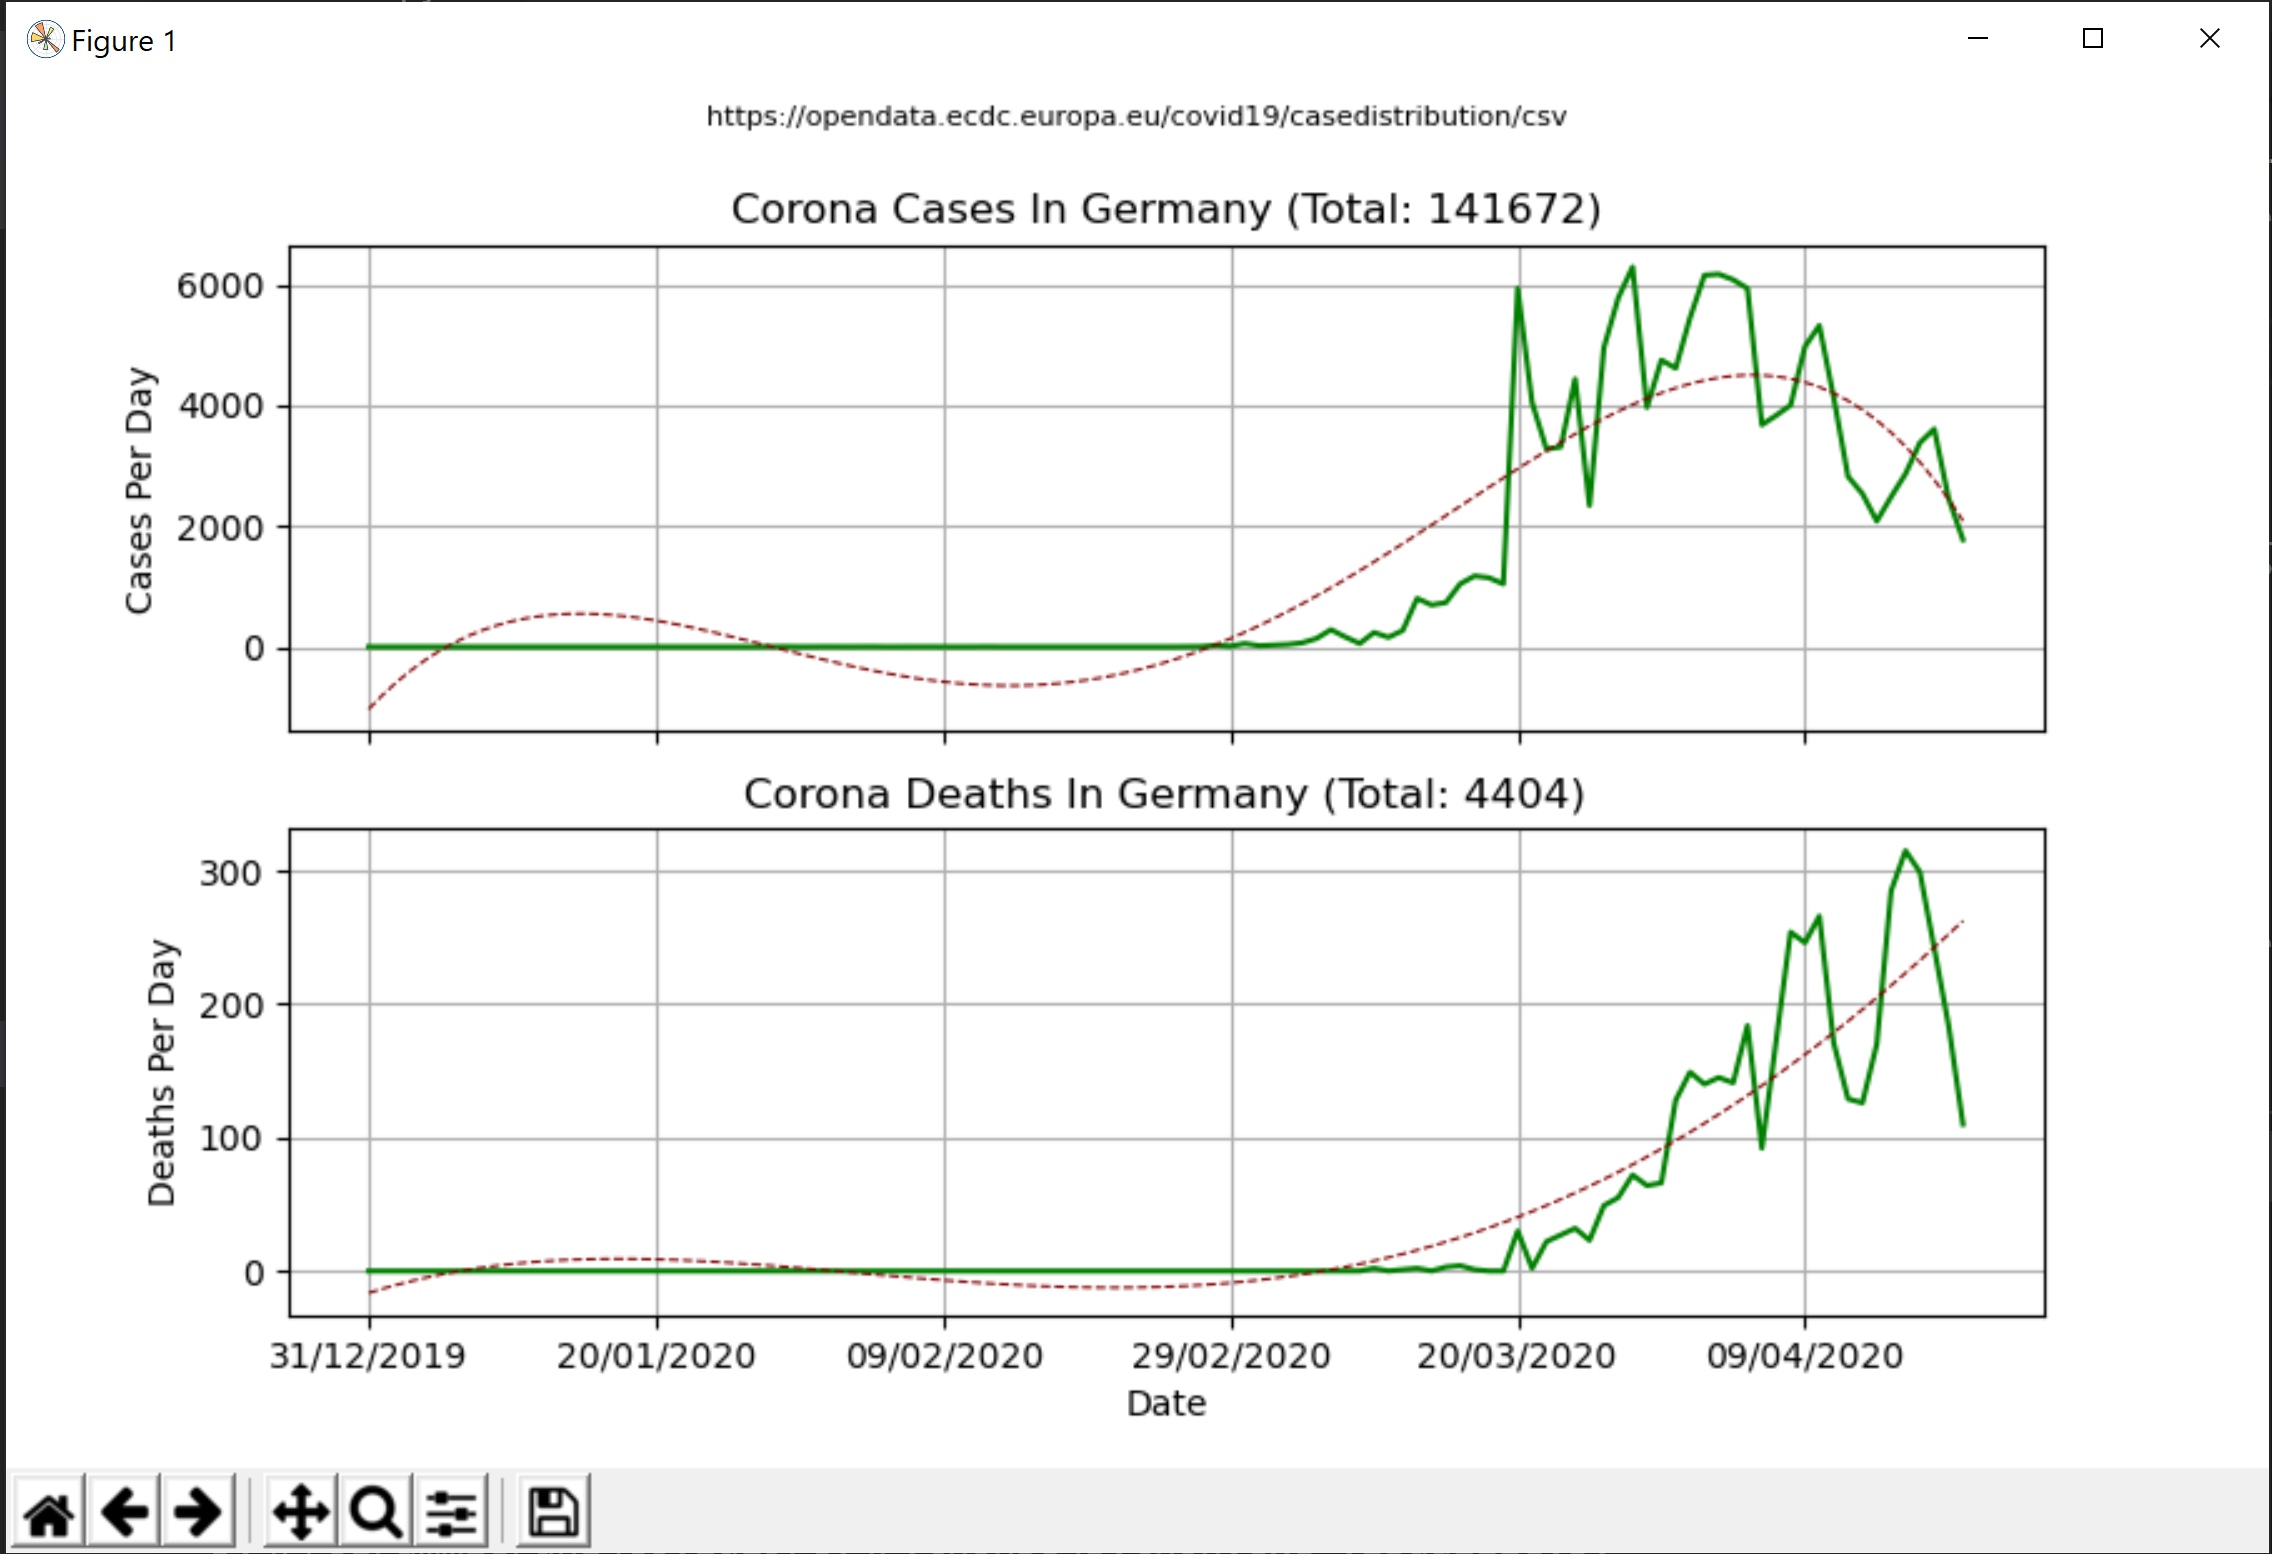
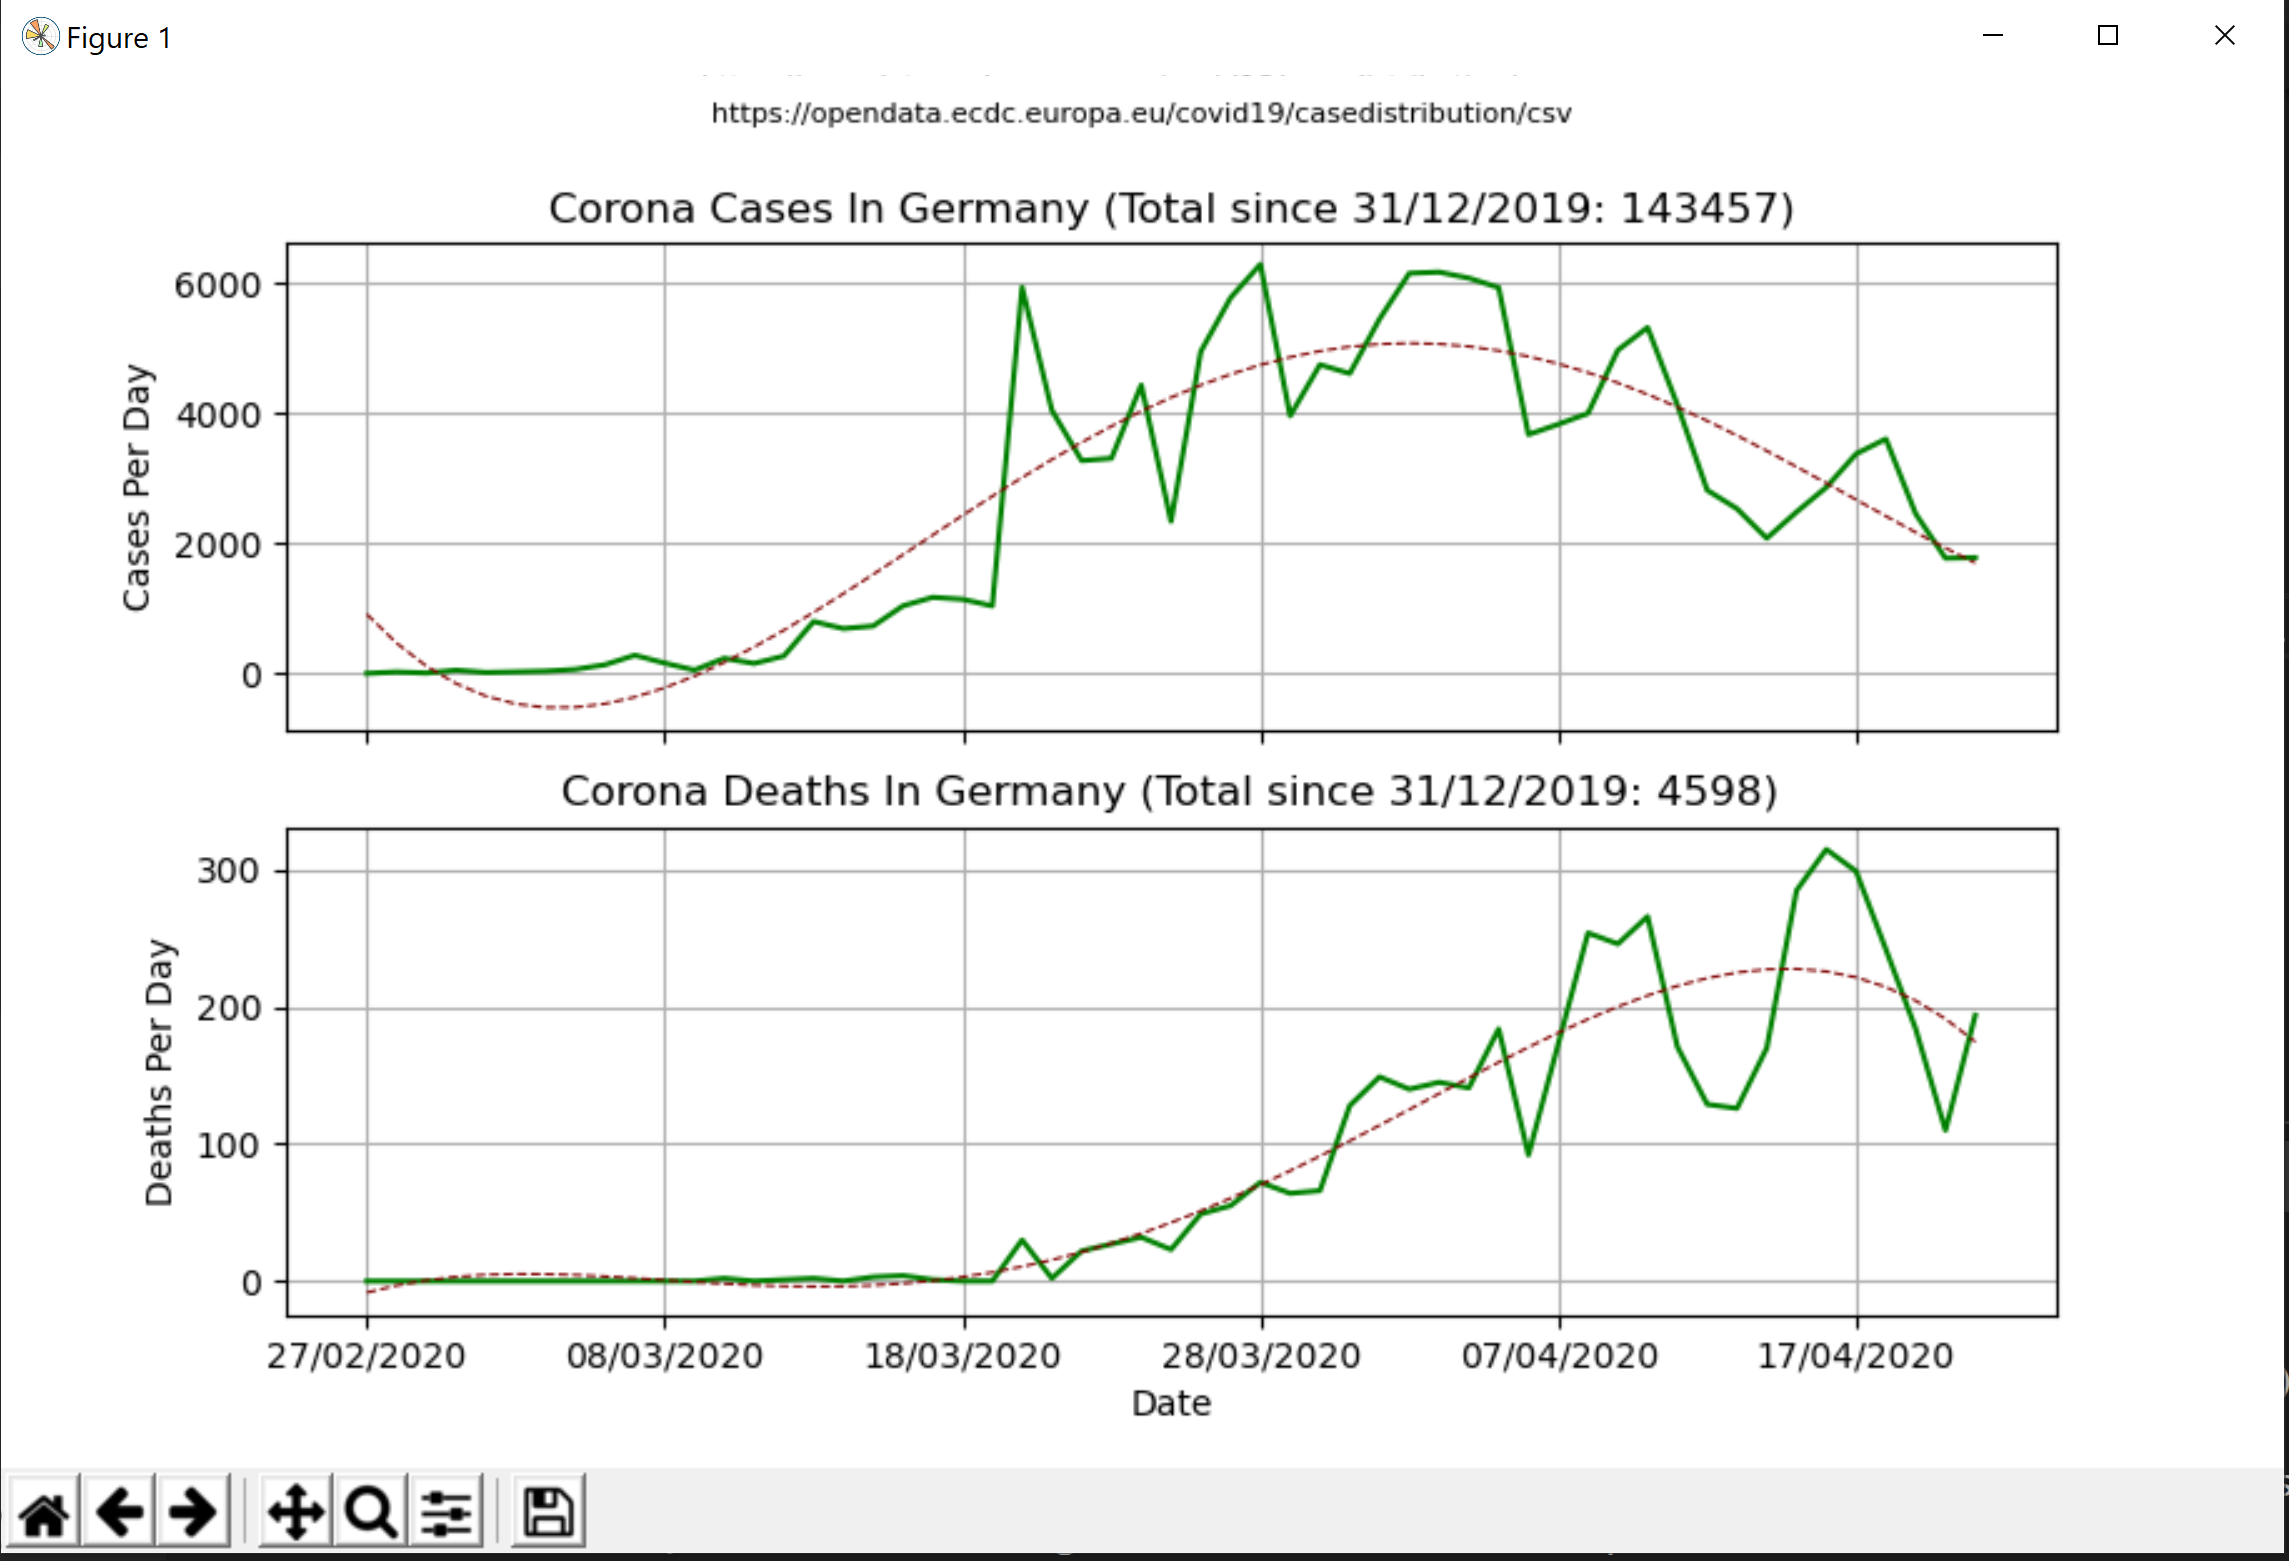
- Updating images (with filter --initial-cases=4) - Displaying since when totals count in titles

diff --git a/visualize.py b/visualize.py
@@ -95,6 +95,7 @@ def main(**options):
     df_concrete = df_concrete.sort_values(by=['year', 'month', 'day'])
     df_concrete = df_concrete.reset_index(drop=True)
 
+    first_day = df_concrete['dateRep'].values.flatten()[0]
     sum_of_cases = df_concrete['cases'].sum()
     sum_of_deaths = df_concrete['deaths'].sum()
 
@@ -110,7 +111,7 @@ def main(**options):
     DPI = fig.get_dpi()
     fig.set_size_inches(options['width']/float(DPI), options['height']/float(DPI))
 
-    title = 'Corona Cases In %s (Total: %d)' % (country_filter, sum_of_cases)
+    title = 'Corona Cases In %s (Total since %s: %d)' % (country_filter, first_day, sum_of_cases)
     axes = df_concrete.plot(x='dateRep', y='cases', title=title,
                             ax=main_axes[0],
                             kind='line', grid=True, color='#008000', legend=False)
@@ -122,7 +123,7 @@ def main(**options):
     p = np.poly1d(np.polyfit(x, df_concrete['cases'].values.flatten(), 4))
     main_axes[0].plot(x, p(x), linestyle='dashed', linewidth=0.75, color='#800000')
 
-    title = 'Corona Deaths In %s (Total: %d)' % (country_filter, sum_of_deaths)
+    title = 'Corona Deaths In %s (Total since %s: %d)' % (country_filter, first_day, sum_of_deaths)
     axes = df_concrete.plot(x='dateRep', y='deaths', title=title,
                             ax=main_axes[1],
                             kind='line', grid=True, color='#008000', legend=False)

diff --git a/README.md b/README.md
@@ -7,7 +7,7 @@ seeing the snapshot of the day only and I were interested
 to the see the development from the past weeks and months
 until now for my own country.
 
-The final result looks like this:
+The final result looks like this (depending on the options you have choosen):
 
 ![](docs/images/covid19.png)
 
@@ -20,7 +20,7 @@ libraries installed:
 pip install requests numpy pandas matplotlib click
 ```
 
-With this you simply can run the script like this:
+With this you simply can run the script like this (depending on the options you have choosen):
 
 ```
 python visualize.py
